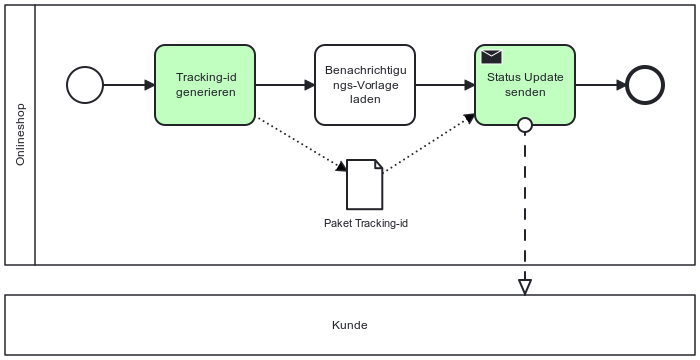
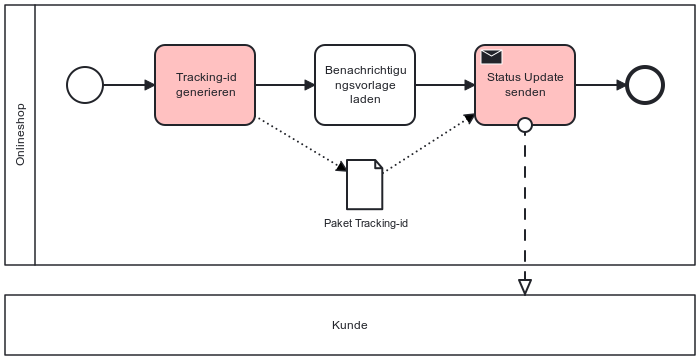
Include running example in task definition chapter

Changed region(s): [[0.66, 0.1222, 0.84, 0.3667], [0.21, 0.1222, 0.36, 0.3667], [0.48, 0.2139, 0.57, 0.275]]

diff --git a/thesis/de/chapters/3-problemdefinition/qualitaetsziele.tex b/thesis/de/chapters/3-problemdefinition/qualitaetsziele.tex
@@ -19,7 +19,7 @@ Zur Bewertung des Hauptziels wird eine Konfusionsmatrix verwendet. Im vorliegend
 
 Aus diesen Größen leiten sich die Evaluationsmetriken ab. Relevante Metriken für eine aussagekräftige Evaluierung sind \emph{Accuracy}, \emph{Precision}, \emph{Recall}, \emph{F1-Score} sowie die Konfusionsmatrix-Zahlen (\acp{TP}, \acp{FP}, \acp{TN}, \acp{FN}) und die Anzahl korrekt/inkorrekt klassifizierter Testfälle. Technische Fehler (z.\,B. Parsing-Fehler oder überschrittene Token Limits) werden separat ausgewiesen.
 
-Diese Metriken sind in Information Retrieval und Maschinellem Lernen seit langem etabliert und bilden den De-facto-Standard zur Bewertung von Klassifikatoren \cite{manning2008ir, sokolova2009measureclassification, nake2023towards}. Für das hier betrachtete binäre Problem gelten:
+Diese Metriken sind in Information Retrieval und maschinellem Lernen seit langem etabliert und bilden den De-facto-Standard zur Bewertung von Klassifikatoren \cite{manning2008ir, sokolova2009measureclassification, nake2023towards}. Für das hier betrachtete binäre Problem gelten:
 
 \[
     \mathrm{Accuracy}=\frac{\mathrm{TP}+\mathrm{TN}}{\mathrm{TP}+\mathrm{FP}+\mathrm{TN}+\mathrm{FN}},\quad
@@ -42,8 +42,10 @@ Basierend darauf werden folgende Zielkorridore als \emph{pragmatische Abnahmekri
 \begin{itemize}
     \item \textbf{Recall} soll ein Mindestniveau von $\geq 0{,}80$ erreichen und ein \emph{angestrebter} Bereich ist $\geq 0{,}85$.
     \item \textbf{Precision} soll $\geq 0{,}75$ als Untergrenze zur Begrenzung des Prüfaufwands erreichen.
-    \item \textbf{F1-Score} soll $\geq 0{,}80$  erreichen.
+    \item \textbf{F1-Score} soll $\geq 0{,}80$ erreichen.
 \end{itemize}
+
+Im Kontext des laufenden Beispiels bedeutet dies u.\,a.: Eine Strategie \enquote{alles ist kritisch} liefert zwar Recall $=1{,}0$, unterschreitet mit Precision $\approx 0{,}67$ jedoch das Ziel. Stattdessen ist daher eine ausgewogene Erkennung gefordert, die \texttt{Activity\_\linebreak~template} korrekt als unkritisch belässt.
 
 Nake~et~al.\ \cite{nake2023towards} zeigen, dass selbst ein \emph{Recall} von $0{,}83$ für kritische Aufgaben ohne menschliche Nachkontrolle nicht ausreicht, da die Strafen für Nichteinhaltung der \ac{DSGVO} sehr hoch sind. Viel mehr eignet sich ein System mit diesem Recall-Wert für \emph{assistierte} Prüfungen, bei denen die Ergebnisse durch qualifizierte Experten validiert werden. Für ein Screening von Geschäftsprozessen, wie es in dieser Arbeit angestrebt wird, sind die genannten Zielwerte daher als realistisch und praxisrelevant einzuschätzen.
 
@@ -51,4 +53,6 @@ Zusammenfassend fixieren die Zielwerte die angestrebte Performance. Im nächsten
 
 \subsection*{Stabilität über Wiederholungen}
 
-Da \acp{LLM} nicht-deterministisch sind, ist das Berichten eines einzelnen Leistungswertes nicht ausreichend für den Vergleich von Modellen. Studien wie von Reimers et al. \cite{reimers2017reporting} zeigen, dass die Abhängigkeit vom Seed-Wert der \acp{LLM} zu statistisch signifikanten Unterschieden in der Performance führen kann. Diese Varianz kann dazu führen, dass ein modernes, leistungsfähiges Modell von sehr gut bis mittelmäßig abschneidet. Stattdessen wird vorgschlagen, Score-Verteilungen zu vergleichen, die auf mehreren Durchläufen basieren. Dadurch wird das Risiko reduziert, dass ein Modell nur aufgrund eines günstigen Seeds gut oder aufgrund eines ungünstigen Seeds schlecht abschneidet. In dieser Arbeit werden daher die Ergebnisse auf Basis von Widerholungen berichtet. Es wird der Mittelwert $\pm$ Standardabweichung ($\sigma$) je Metrik angegeben, da die Standardabweichung die Stabilität eines Modells über verschiedene Läufe hinweg darstellt. Modellvergleiche basieren am Ende auf diesen Verteilungen und nicht auf Einzelfällen, um eine fundierte Bewertung zu ermöglichen.
+Da \acp{LLM} nicht-deterministisch sind, ist das Berichten eines einzelnen Leistungswertes nicht ausreichend für den Vergleich von Modellen. Studien wie von Reimers et al. \cite{reimers2017reporting} zeigen, dass die Abhängigkeit vom Seed-Wert der \acp{LLM} zu statistisch signifikanten Unterschieden in der Performance führen kann. Diese Varianz kann dazu führen, dass ein modernes, leistungsfähiges Modell von sehr gut bis mittelmäßig abschneidet. Stattdessen wird vorgschlagen, Score-Verteilungen zu vergleichen, die auf mehreren Durchläufen basieren. Dadurch wird das Risiko reduziert, dass ein Modell nur aufgrund eines günstigen Seeds gut oder aufgrund eines ungünstigen Seeds schlecht abschneidet. Im laufenden Beispiel ist \enquote{Tracking-id generieren} grenzwertig und wird in der Praxis von Modellen gelegentlich fälschlich als \emph{nicht-kritisch} markiert (\ac{FN}) — Wiederholungen und das Berichten von Mittelwert $\pm$ Standardabweichung ($\sigma$) erfassen diese Instabilität.
+
+In dieser Arbeit werden daher die Ergebnisse auf Basis von Widerholungen berichtet. Es wird der Mittelwert $\pm$ Standardabweichung je Metrik angegeben. Modellvergleiche basieren am Ende auf diesen Verteilungen und nicht auf Einzelfällen.

diff --git a/thesis/de/chapters/3-problemdefinition/aufgabenstellung.tex b/thesis/de/chapters/3-problemdefinition/aufgabenstellung.tex
@@ -4,11 +4,19 @@ Ziel der Arbeit ist eine \emph{binäre Klassifikation} auf Ebene einzelner \ac{B
 
 \begin{itemize}
     \item \textbf{Eingabe} ist ein valides \ac{BPMN}-XML mit stabilen \texttt{id}-Attributen je Aktivität \cite{omgbpmn}.
-    \item \textbf{Ausgabe} ist eine Menge von Aktivitäts-\texttt{ids}, die als \emph{kritisch} klassifiziert wurden. Optional werden zusätzlich eine natürlichsprachige Begründung für einzelne Entscheidungen ausgegeben. Im Fall der Klassifizierungspipeline dieser Arbeit werden die Begründungen vom \ac{LLM} generiert. Die Erklärungen dienen ausschließlich der Nachvollziehbarkeit der gewählten Klassifizierungen, werden allerdings nicht in der Evaluation berücksichtigt.
+    \item \textbf{Ausgabe} ist eine Menge von Aktivitäts-\texttt{ids}, die als \emph{kritisch} klassifiziert wurden. Optional werden zusätzlich eine natürlichsprachige Begründung für einzelne Entscheidungen ausgegeben. Im Fall der Klassifizierungspipeline dieser Arbeit werden die Begründungen vom \ac{LLM} generiert. Diese dienen ausschließlich der Nachvollziehbarkeit der gewählten Klassifizierungen, werden allerdings nicht in der Evaluation berücksichtigt.
 \end{itemize}
+
+Zur Veranschaulichung zeigt Listing~\ref{lst:running-example-bpmn} einen vereinfachten  Auszug aus dem \ac{BPMN}-XML des laufenden Beispiels. Die erwartete Ausgabe ist \{\texttt{Activity\_generate}, \texttt{Activity\_send}\}.
+
+\begin{lstlisting}[caption={BPMN-XML-Auszug des laufenden Beispiels}, label={lst:running-example-bpmn}]
+<task id="Activity_generate"  name="Tracking-id generieren"/>
+<task id="Activity_template"  name="Benachrichtigungsvorlage laden"/>
+<task id="Activity_send"      name="Status Update senden"/>
+\end{lstlisting}
 
 \subsection*{Begriffsbestimmung \enquote{kritisch}}
 
-Eine Aktivität gilt in dieser Arbeit als \emph{kritisch}, wenn sie \emph{personenbezogene Daten} verarbeitet. Personenbezogene Daten sind, nach Art.~4~Abs.~1 \ac{DSGVO} \cite{GDPR2016}, alle Informationen, die sich auf eine identifizierte oder identifizierbare natürliche Person beziehen. Gemäß Art.~4~Abs.~2 \ac{DSGVO} \cite{GDPR2016} umfasst Verarbeitung jede mit personenbezogenen Daten vorgenommene Operation, wie z.\,B. Erheben, Speichern, Abrufen, Verwenden, Übermitteln und Löschen. Dies schließt auch die \emph{Nutzung bereits vorhandener Daten} (z.\,B. Lesen/Abgleichen) ein.
+Eine Aktivität gilt in dieser Arbeit als \emph{kritisch}, wenn sie \emph{personenbezogene Daten} verarbeitet. Personenbezogene Daten sind, nach Art.~4~Abs.~1 \ac{DSGVO} \cite{GDPR2016}, alle Informationen, die sich auf eine identifizierte oder identifizierbare natürliche Person beziehen. Gemäß Art.~4~Abs.~2 \ac{DSGVO} \cite{GDPR2016} umfasst Verarbeitung jede mit personenbezogenen Daten vorgenommene Operation, wie z.\,B. Erheben, Speichern, Abrufen, Verwenden, Übermitteln und Löschen. Dies schließt auch die \emph{Nutzung bereits vorhandener Daten} (z.\,B. Lesen/Abgleichen) ein. Am laufenden Beispiel bedeutet dies konkret: \texttt{Activity\_send} ist kritisch, da beim Versand typischerweise personenbezogene Daten (z.\,B. E-Mail-Adresse) verarbeitet werden. \texttt{Activity\_generate} ist kritisch, weil die Tracking-\texttt{id} im Kontext des Kundenkontakts einer Person zugeordnet werden kann. \texttt{Activity\_template} ist im Grundfall nicht kritisch, sofern lediglich eine generische Vorlage geladen wird und keine personenbezogenen Daten einfließen.
 
 Diese Aufgabenstellung reiht sich in Arbeiten zur Kennzeichnung kritischer/unkritischer Tätigkeiten in Prozessartefakten ein und bildet die Referenz für die Qualitätsziele im nächsten Abschnitt. \cite{nake2023towards}

diff --git a/thesis/de/chapters/3-problemdefinition/problemdefinition.tex b/thesis/de/chapters/3-problemdefinition/problemdefinition.tex
@@ -1,17 +1,17 @@
 \chapter{Problemdefinition und Zielkriterien}\label{ch:problemdefinition-und-zielkriterien}
 
+\textcolor{orange}{// TODO Hier Hier fehlt noch etwas der Bezug zu der vorher gut vorgestellten Domäne. Wahrscheinlich schafft das Kapitel "Verwandte Arbeiten" da noch einen besseren Übergang}
+
 Dieses Kapitel präzisiert die Aufgabe der Arbeit, die Qualitätsziele der Klassifikation und steckt den fachlichen Geltungsbereich ab. Außerdem wird das Experimentdesign beschrieben, um die Forschungsfragen systematisch zu beantworten. Damit schafft es die Grundlage für die in Kapitel~\ref{ch:klassifizierungsalgorithmus-(design-und-implementierung)} beschriebene Klassifizierungspipeline sowie für die späteren Experimente und deren Auswertung.
 
-Abbildung~\ref{fig:running_example} zeigt einen Beispielprozess, der in den folgenden Abschnitten als durchgehende Referenz dient. Er modelliert den Versand eines Statusberichts eines Onlineshops an Kunden. Hierfür werden personenbezogene Daten in den Aktivitäten \enquote{Tracking-id generieren} und \enquote{Status Update senden} verarbeitet.
+Abbildung \ref{fig:running_example} zeigt einen Beispielprozess, der in den folgenden Abschnitten als laufendes Beispiel dient. Er modelliert den Versand eines Statusberichts eines Onlineshops an Kunden. Dabei werden personenbezogene Daten in den Aktivitäten \enquote{Tracking-id generieren} und \enquote{Status Update senden} verarbeitet, die die stabilen \texttt{ids} \texttt{Activity\_generate} und \texttt{Activity\_send} besitzen. Die Aktivität \enquote{Benachrichtigungsvorlage laden}, mit der \texttt{id} \texttt{Activity\_template}, dient als Negativbeispiel.
 
 \begin{figure}[h]
     \centering
-    \label{fig:running_example}
     \includegraphics[width=0.7\textwidth]{images/running_example}
     \caption{Beispielprozess zur Veranschaulichung der Aufgabenstellung}
+    \label{fig:running_example}
 \end{figure}
-
-\textcolor{orange}{// TODO Abbildung im Kapitel referenzieren wo es Sinn ergibt. Aktuell ist sie noch nirgends referenziert.}
 
 \input{de/chapters/3-problemdefinition/aufgabenstellung}
 \input{de/chapters/3-problemdefinition/qualitaetsziele}

diff --git a/thesis/de/chapters/3-problemdefinition/experimentdesign.tex b/thesis/de/chapters/3-problemdefinition/experimentdesign.tex
@@ -16,7 +16,7 @@ Ein Experiment verläuft in folgenden Schritten:
 \begin{enumerate}
     \item \textbf{Konfiguration laden}. Die Konfiguration mit Modellen, Datensätzen und optionalem \texttt{seed} wird geladen.
     \item \textbf{Ausführung}. Für jedes Modell werden alle ausgewählten Testfälle durch die Klassifizierungspipeline verarbeitet. Pro Testfall werden \ac{TP}, \ac{FP}, \ac{FN}, \ac{TN} sowie der Status \enquote{bestanden} oder \enquote{nicht bestanden} berechnet.
-    \item \textbf{Stabilität}. Die Läufe erfolgen mit \texttt{temperature} gleich 0\footnote{Die \texttt{temperature} steuert die Zufälligkeit der Textgenerierung bei \acp{LLM}. Niedrige Werte liefern stabilere Antworten, hohe Werte vielfältigere, jedoch weniger verlässliche \cite{ibm-llm-temperature}.} und festem \texttt{seed}, sofern das jeweilige \ac{LLM} dies unterstützt. Um die Nicht-Deterministik moderner \acp{LLM} abzubilden, werden die Experimente mehrfach mit unterschiedlichen Seeds wiederholt. Die Ergebnisse werden über die Läufe gemittelt.
+    \item \textbf{Stabilität}. Die Läufe erfolgen mit niedriger \texttt{temperature}\footnote{Die \texttt{temperature} steuert die Zufälligkeit der Textgenerierung bei \acp{LLM}. Niedrige Werte liefern stabilere Antworten, hohe Werte vielfältigere, jedoch weniger verlässliche \cite{ibm-llm-temperature}.} und festem \texttt{seed}, sofern das jeweilige \ac{LLM} dies unterstützt. Um die Nicht-Deterministik moderner \acp{LLM} abzubilden, werden die Experimente mehrfach mit unterschiedlichen Seeds wiederholt. Die Ergebnisse werden über die Läufe gemittelt.
     \item \textbf{Bericht}. Aggregierte Kennzahlen pro Modell, wie Konfusionsmatrix, die genannten Metriken sowie die Bestehensraten werden ausgegeben. Metadaten wie verwendete Modelle, Datensätze und Seeds werden dokumentiert.
 \end{enumerate}
 

diff --git a/thesis/de/chapters/3-problemdefinition/scope.tex b/thesis/de/chapters/3-problemdefinition/scope.tex
@@ -7,7 +7,7 @@ Dieser Abschnitt definiert Geltungsbereich, Annahmen und Risiken des Ansatzes. D
 Die folgenden Punkte definieren den Geltungsbereich der Arbeit:
 
 \begin{itemize}
-    \item Klassifiziert werden ausschließlich Aktivitäten. Dafür wird sinvoller Kontext (z.\,B. Prozessname, Pool/Lane, Datenobjekte) berücksichtigt.
+    \item Klassifiziert werden ausschließlich \emph{Aktivitäten}. Dafür wird sinnvoller Kontext berücksichtigt, wie Labels, Pools/Lanes (z.\,B.\ \enquote{Onlineshop}, \enquote{Kunde}), Message Flows sowie vorhandene Datenobjekte (z.\,B.\ \enquote{Paket Tracking-id}).
     \item Labels und Artefakte liegen in Deutsch und Englisch vor.
     \item Es handelt sich um ein \emph{Screening}, nicht um eine Rechtsprüfung. Kritisch klassifizierte Aktivitäten sind anschließend juristisch zu prüfen.
 \end{itemize}
